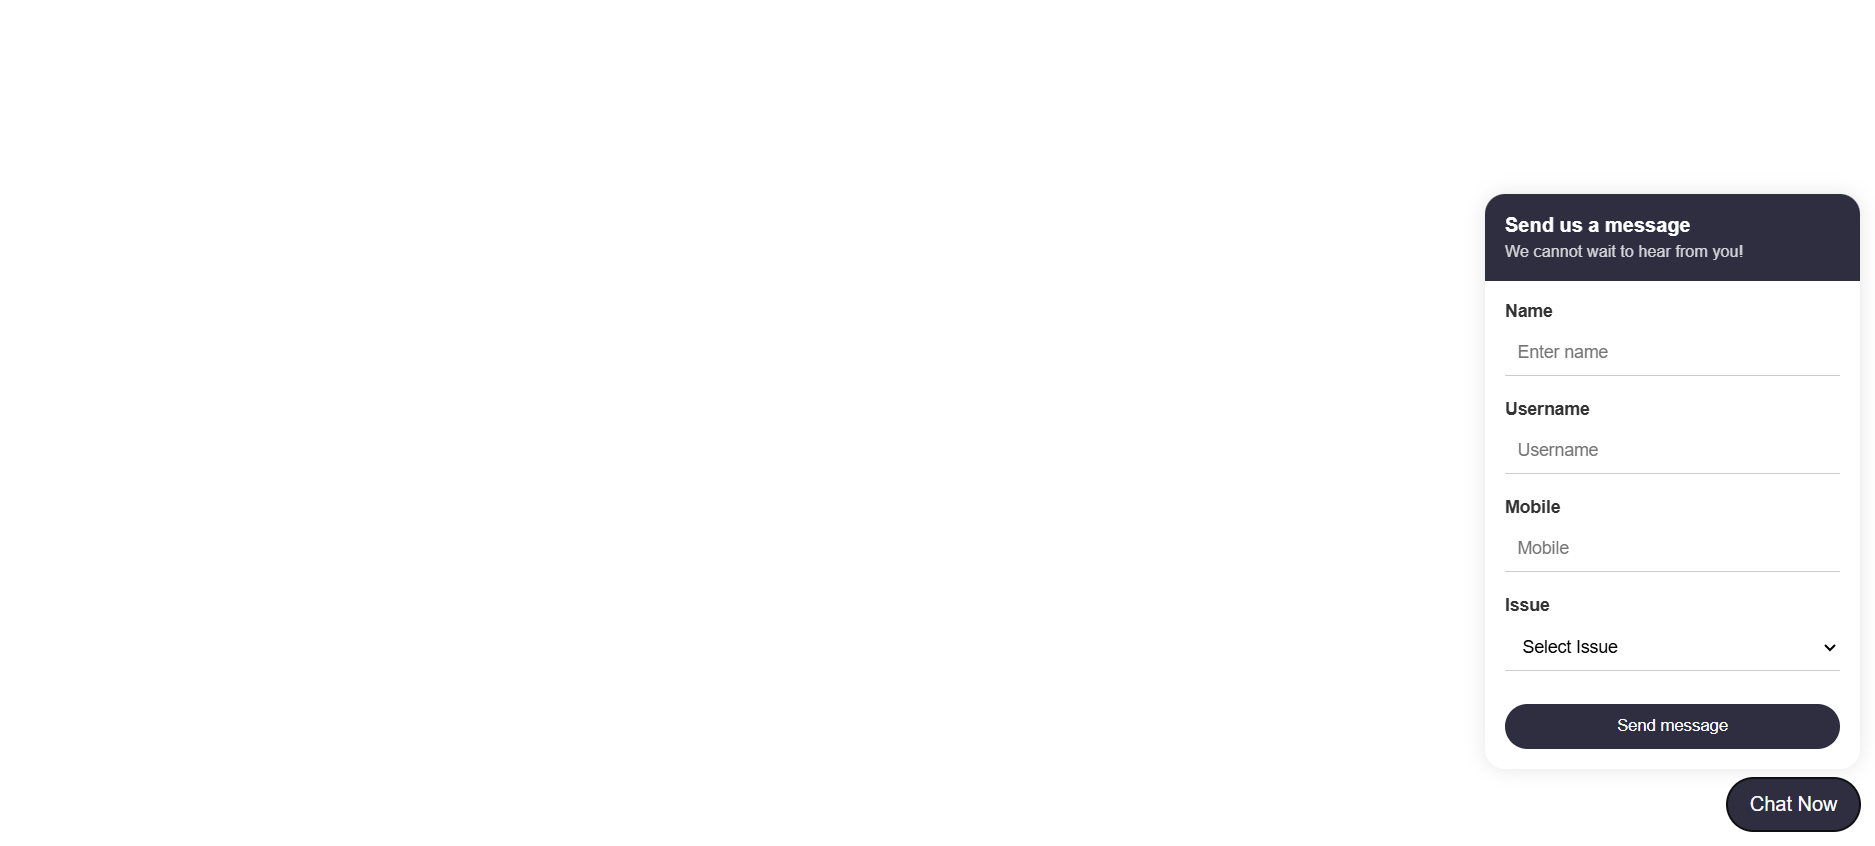
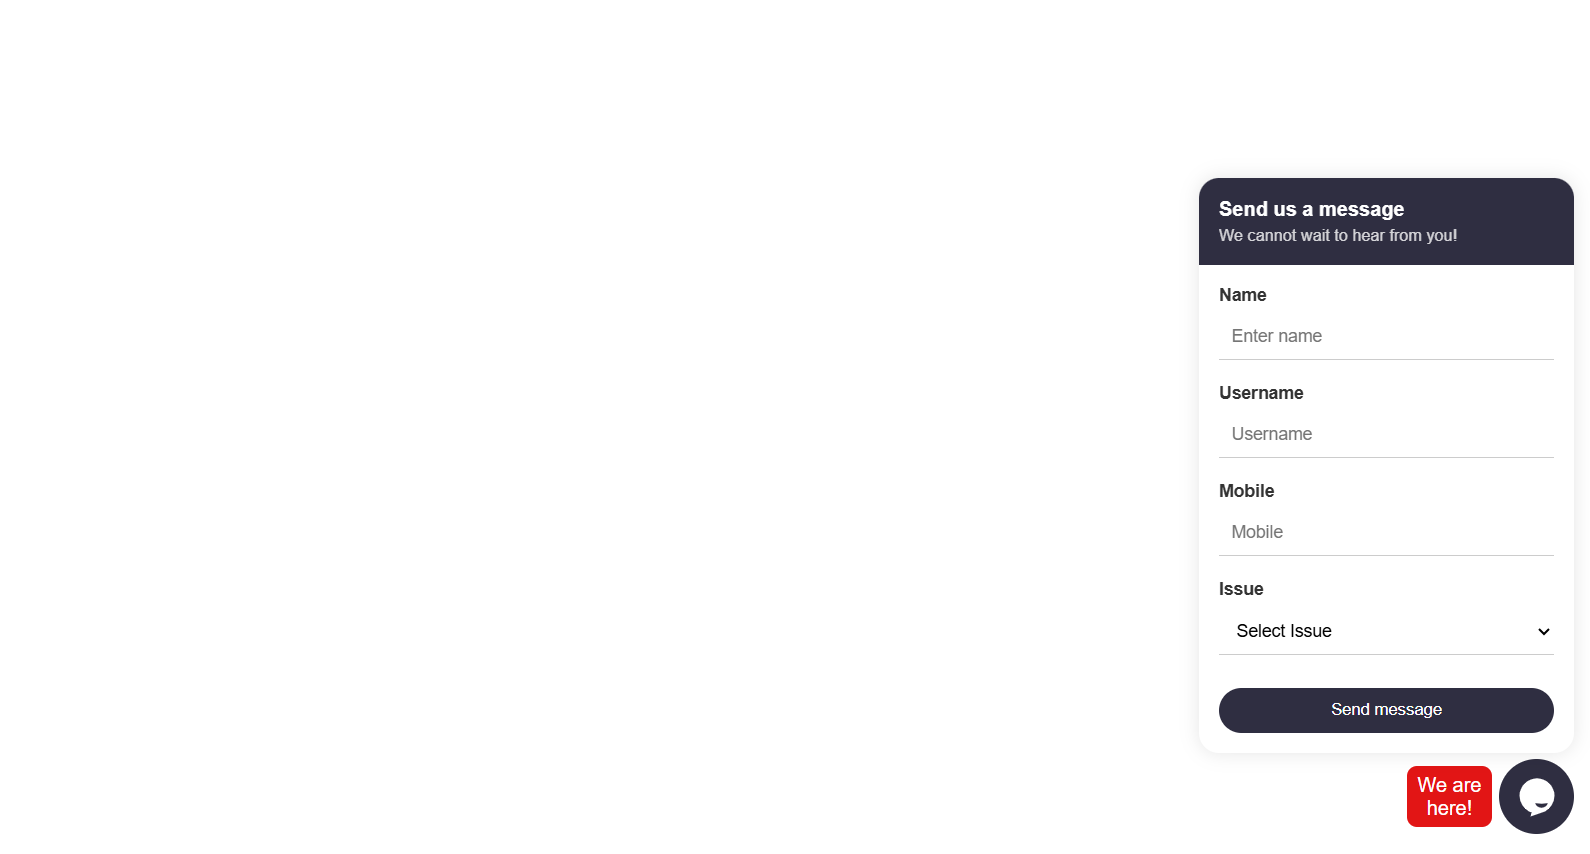
[FEAT] Update Preview

diff --git a/script.js b/script.js
@@ -50,12 +50,14 @@ class WhatsAppWidget {
 
       .wa-widget-button-message {
         width: max-content;
-        padding: 4px 8px;
+        padding: 6px 8px;
         border-radius: 8px;
         background: rgb(226, 21, 21);
         font-size: 16px;
         color: white;
         text-align: center;
+        font-family: sans-serif;
+
       }
       .wa-widget-button {
         width: 60px;
